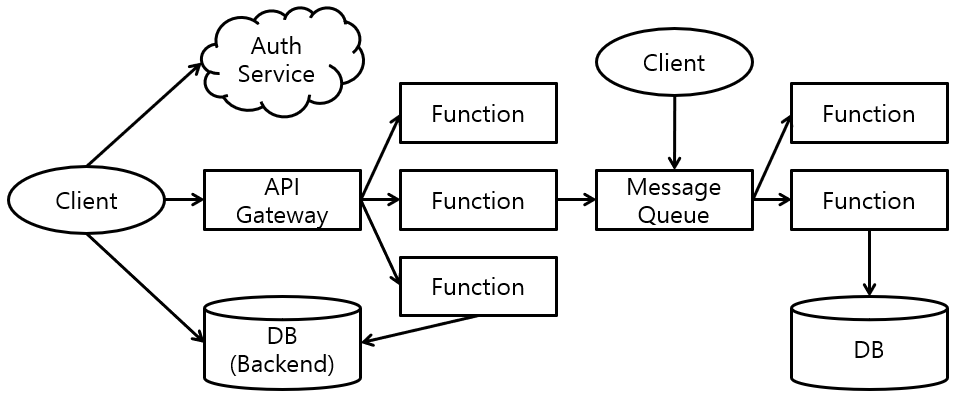
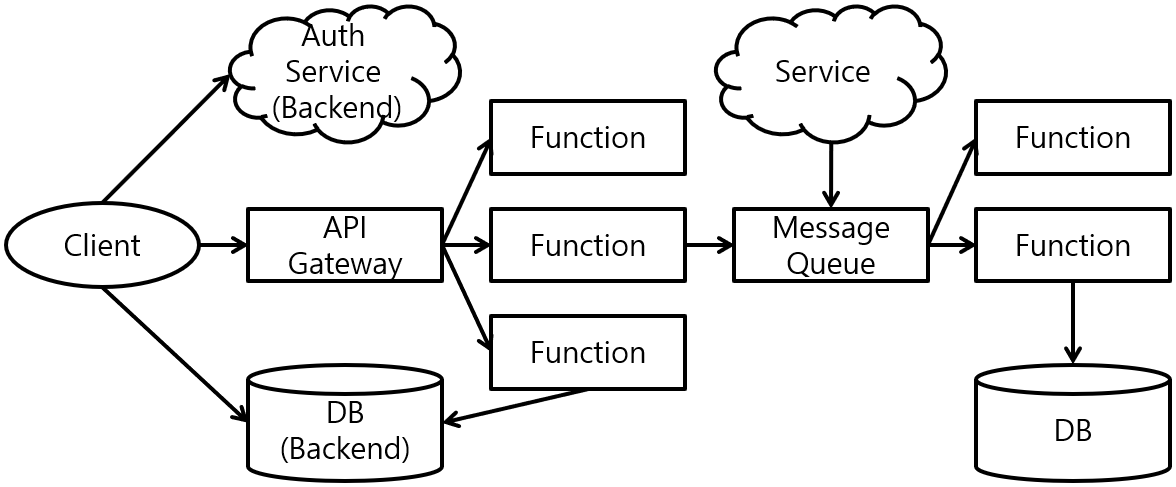
Update Serverless

diff --git a/_docs/theory_analysis/Serverless_Architecture_BaaS_FaaS.md b/_docs/theory_analysis/Serverless_Architecture_BaaS_FaaS.md
@@ -13,17 +13,23 @@ Serverless Architecture을 분석하고, Serverless Achitecture 기반의 Servic
 
 ![]({{site.baseurl}}/images/theory_analysis/Serverless_Architecture_BaaS_FaaS/Serverless_Architecture.PNG){: width="700px"}
 
-Serverless Architecture는 Server의 기능을 Client에 넘겨 Server의 기능을 최소화하는 Architecture를 의미한다. Serverless Architecture의 Server는 한정된 기능만 수행하기 때문에 Server의 관리 및 배포가 일반 Server에 비해 수월하다. 이러한 특징을 이용하여 Cloud Service Provider는 개발자가 Serverless Architecture 기반의 App 개발시, Server 관리를 완전히 자동화하여 App 개발자가 App Logic에만 집중하도록 도와주는  환경을 제공하고 있다. BaaS (Backend as a Service)와 FaaS (Function as a Service)는 Serverless Architecture를 활용한 대표적인 기법이다.
+Serverless Architecture는 Server의 기능을 Client에 넘겨 Server의 기능을 최소화하는 Architecture를 의미한다. Serverless Architecture의 Server는 한정된 기능만 수행하기 때문에 Server의 관리 및 배포가 일반 Server에 비해 수월하다. 이러한 특징을 이용하여 Cloud Service Provider는 개발자가 Serverless Architecture 기반의 App 개발시, Server 관리를 완전히 자동화하여 App 개발자가 App Logic에만 집중하도록 도와주는 환경을 제공하고 있다. BaaS (Backend as a Service)와 FaaS (Function as a Service)는 Serverless Architecture를 활용한 대표적인 기법이다.
 
 ### 2. BaaS (Backend as a Service)
 
-BaaS는 의미 그대로 DB, Storage, 인증 등의 Backend 기능을 Service로 제공하는 기법을 의미한다. Google의 Firebase가 대표적인 BaaS이다. BaaS는 Backend Service 기능을 제공하는 Server들을 스스로 관리하고 제어하기 때문에 App 개발자는 App Logic 개발에 집중 할 수 있게된다. 위의 그림에서 가장 왼쪽에 있는 Client는 BaaS의 DB Service를 이용하는 모습을 나타내고 있다. Client가 직접 BaaS의 DB를 접근하는 구조이기 때문에, Server에서 구현되던 Backend Logic들이 Client로 이동하여 Client에서 구현되어야 한다.
+BaaS는 의미 그대로 DB, Storage, 인증 등의 Backend 기능을 Service로 제공하는 기법을 의미한다. Google의 Firebase가 대표적인 BaaS이다. Backend Service는 BaaS에 의해서 자동으로 관리, 복구되고 사용량에 따라 자동으로 Scale In/Out된다. 따라서 App 개발자는 App Logic 개발에 집중 할 수 있게된다. 위의 그림에서 Client는 BaaS의 DB Service와 인증 Service를 이용하는 모습으로 간주 될 수 있다. Client가 직접 BaaS의 DB를 접근하는 구조이기 때문에, Server에서 구현되던 Backend Logic들이 Client로 이동하여 Client에서 구현되어야 한다.
 
-대부분의 BaaS는 DB나 Storage의 사용량에 따라서 사용요금을 지불한다. 따라서 App에서 적은양의 Data를 저장하는 경우 BaaS를 이용하여 빠른 App 개발이 가능하다. 하지만 App에서 대용량의 Data를 저장하는 경우 많은 사용요금을 지불해야하고 세밀한 DB, Storage 튜닝이 불가능하기 때문에 BaaS 이점을 제대로 활용할 수 없게 된다.
+대부분의 BaaS는 DB나 Storage의 사용량에 비례하여 사용요금을 지불하기 때문에, App에서 적은양의 Data를 저장하는 경우 BaaS를 이용하여 빠르고 적은 비용으로 App 개발이 가능하다. 하지만 App에서 대용량의 Data를 저장하는 경우 많은 사용요금을 지불해야하고 세밀한 DB, Storage 설정이 불가능하기 때문에 BaaS 이용이 비효율적일 수 있다.
 
 ### 3. FaaS (Function as a Service)
 
+FaaS는 의미그대로 Function을 Service로 제공하는 기법을 의미한다. AWS의 Lambda, Google의 Cloud Function이 대표적인 FaaS이다. 개발자는 Function을 개발하여 FaaS에게 넘긴다. 개발된 Function은 FaaS에 의해서 자동으로 Server에 배포, 관리, 복구되고 사용량에 따라 자동으로 Scale In/Out된다. 따라서 개발자는 Server에 신경 쓸필요 없이 Function 개발 및 App 개발에만 집중하면 된다.
 
+Function은 Event가 전달될때 수행되는 **Event Handler** 형태로 작성된다. Event는 API Gateway를 지나온 Client의 요청이 될 수도 있고, Message Queue를 지나온 Service나 Function의 요청이 될 수도 있다. Event와 Function Mapping은 개발자에 의해서 설정된다. Function은 FaaS에서 제공하는 API를 이용하여 DB에 접근하거나 Message Queue에 Event를 전송 할 수 있기 때문에, Server에서 구현되던 Backend Logic의 일부는 Function에 구현될 수 있다. 하지만 FaaS는 의미그대로 Function을 제공하는 Service이기 때문에 전반적인 App Logic은 Client에 포함되어 있다. 위의 그림에서 Client는 API Gateway 및 Message Queue를  통하여 FaaS의 Function을 이용하는 모습으로도 간주 될 수 있다.
+
+Function은 항상 구동되지 않고 Event가 발생 할때마다 해당 Function을 가지고 있는 Instance(Container) 구동하는 방식이다. 따라서 FaaS의 과금 방식은 Function이 호출된 횟수에 비례한다. 이러한 특징 때문에 FaaS는 Instance를 계속 띄워두는 기존의 Cloud Service에 비해서 적은 비용이 발생한다. 따라서 자주 사용되지 않는 App 개발시 FaaS를 이용하면 빠르고 적은 비용으로 App 개발이 가능하다. 하지만 FaaS의 단점도 존재한다.
+
+Function은 Event Handler 형태로 구현되기 때문에 반드시 Stateless해야 한다. 또한 Function은 작은 기능을 수행하는 단위로 간주되기 때문에, Function의 최대 수행시간은 짧게 제한된다. 따라서 Function에는 오랜 시간이 걸리는 Logic을 구현 할 수 없다. Event가 발생할때 마다 Function Instance를 새로 구동하는 방식이기 때문에, Function 수행하기전 Runtime 초기화로 인한 Start Latency가 발생한다. Function이 자주 호출 될 수록 Start Latency로 인한 성능 저하를 고려해야한다. Function을 구동하는 Server 및 Container가 자동으로 관리되기 때문에 세밀한 Server, Container, Network 설정이 불가능한 단점도 존재한다.
 
 ### 4. 참조
 
